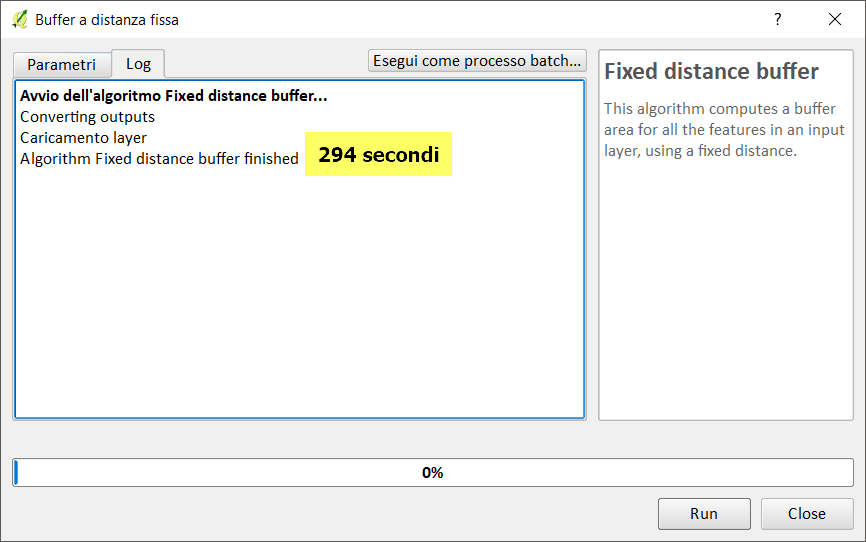
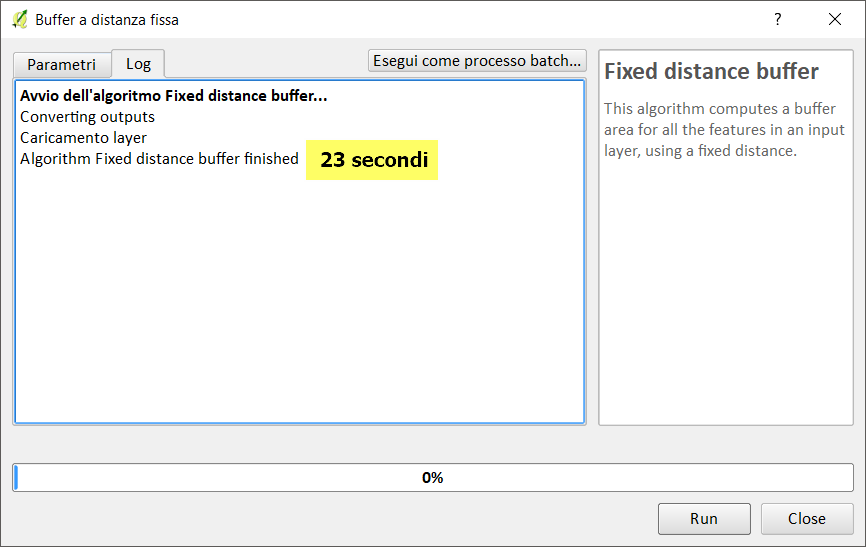
add prova buffer -2 km

diff --git a/prove/buffer2km.md b/prove/buffer2km.md
@@ -1,0 +1,189 @@
+# buffer -2 km (LZ50)
+
+**dataset:** db sqlite con spatialindex tabella _dissolve_reg_
+
+<!-- TOC -->
+
+- [buffer -2 km (LZ50)](#buffer--2-km-lz50)
+    - [QGIS 2.18.24](#qgis-21824)
+    - [QGIS 3.2.3](#qgis-323)
+    - [QGIS 3.3 master](#qgis-33-master)
+    - [SpatiaLite GUI 2.10](#spatialite-gui-210)
+    - [PostgreSQL 9.3 / PostGIS 2.2.3 / pgAdmin 3](#postgresql-93--postgis-223--pgadmin-3)
+    - [mapshaper](#mapshaper)
+    - [R + RStudio](#r--rstudio)
+    - [RISULTATI (LZ50) - buffer -2 km](#risultati-lz50---buffer--2-km)
+    - [Osservazioni finali:](#osservazioni-finali)
+
+<!-- /TOC -->
+
+## QGIS 2.18.24
+
+![](../img/qgis21824_info.png)
+
+![](../img/buffer2km/qgis21824_01.png)
+
+Creando un layer temporaneo in memoria:
+
+![](../img/buffer2km/qgis21824_02.png)
+
+Salvando in un file shp:
+
+![](../img/buffer2km/qgis21824_03.png)
+
+![](../img/buffer2km/qgis21824_04.png)
+
+-->[torna su](#dissolvi-per-regione-lz50)
+
+## QGIS 3.2.3
+
+![](../img/qgis323_info.png)
+
+![](../img/buffer2km/qgis323_01.png)
+
+Creando un layer temporaneo in memoria:
+
+![](../img/buffer2km/qgis323_04.png)
+
+Salvando in un file shp:
+
+![](../img/buffer2km/qgis323_02.png)
+
+![](../img/buffer2km/qgis323_03.png)
+
+-->[torna su](#dissolvi-per-regione-lz50)
+
+## QGIS 3.3 master
+
+![](../img/qgis33_master_info.png)
+
+NB: Il debug rallenta le prestazioni!!!
+
+![](../img/buffer2km/qgis330_01.png)
+
+Creando un layer temporaneo in memoria:
+
+![](../img/buffer2km/qgis330_02.png)
+
+Salvando in un file shp:
+
+![](../img/buffer2km/qgis330_03.png)
+
+-->[torna su](#dissolvi-per-regione-lz50)
+
+## SpatiaLite GUI 2.10
+
+![](../img/spatialite_gui_210_info.png)
+
+Creando una tabella:
+
+```
+-- creo geotabella buffer di -2 km
+CREATE TABLE buffer2km_g AS
+SELECT cod_reg, CastToMultiPolygon(ST_Buffer(geom, -2000)) AS geom
+FROM dissolve_reg;
+SELECT RecoverGeometryColumn('buffer2km_g','geom',32632,'MULTIPOLYGON','XY');
+-- creo SpatialIndex SpatiaLite
+SELECT CreateSpatialIndex ('buffer2km_g','geom');
+
+```
+![](../img/buffer2km/sl_210_01.png)
+
+Creando una query in memoria:
+
+```
+-- creo query in memoria
+SELECT cod_reg, CastToMultiPolygon(ST_Buffer(geom, -2000)) AS geom
+FROM dissolve_reg;
+```
+
+![](../img/buffer2km/sl_210_02.png)
+
+-->[torna su](#dissolvi-per-regione-lz50)
+
+## PostgreSQL 9.3 / PostGIS 2.2.3 / pgAdmin 3
+
+![](../img/pgAmin3_info.png)
+
+Creo tabella:
+
+```
+-- creo geotabella con buffer di -2 km
+CREATE TABLE buffer2km_g AS
+SELECT cod_reg, St_Multi(St_Buffer(geom, -2000)) AS geom
+FROM dissolto_g_reg;
+```
+![](../img/buffer2km/pg_223_01.png)
+
+Creo query in memoria:
+
+```
+-- creo query in memoria
+SELECT cod_reg, St_Multi(St_Buffer(geom, -2000)) AS geom
+FROM dissolto_g_reg;
+```
+
+![](../img/buffer2km/pg_223_02.png)
+
+-->[torna su](#dissolvi-per-regione-lz50)
+
+## mapshaper
+
+![](../img/mapshaper_info.png)
+
+```
+Il Buffer sembra non previsto!!!
+```
+
+-->[torna su](#dissolvi-per-regione-lz50)
+
+## R + RStudio
+
+![](../img/rstudio_info.png)
+
+```
+library(rgeos)
+library(sp)
+library(rgdal)
+
+start.time <- Sys.time()
+## read shapefile
+regioni<-readOGR(dsn = "F:\\Limiti01012018_g\\Com01012018_g", layer = "dissolto_g_reg")
+end.time <- Sys.time()
+time.taken <- end.time - start.time
+time.taken
+##Buffer with rgeos AND writeOGR
+start.time <- Sys.time()
+buffer2km<-gBuffer(regioni, byid = TRUE , width = -2000)
+##plot(buffer2km)
+buffer2km<- as(buffer2km,"SpatialPolygonsDataFrame")
+end.time <- Sys.time()
+time.taken <- end.time - start.time
+time.taken
+start.time <- Sys.time()
+writeOGR(buffer2km, dsn = "F:\\Limiti01012018_g\\Com01012018_g",layer="buffer2kmR", driver = "ESRI Shapefile")
+end.time <- Sys.time()
+time.taken <- end.time - start.time
+time.taken
+```
+![](../img/buffer2km/r_01.png)
+
+## RISULTATI (LZ50) - buffer -2 km
+
+file/table [sec]|memoria [sec]|software GIS
+:---------:|:---------:|---------
+23         |   23      |QGIS 2.18.24
+22         |   22      |QGIS 3.2.3
+22         |   22      |QGIS 3.3 master con debug
+15         |   11      |SpatiaLite_GUI 2.10
+18         |   18      |pgAdmin 3 con spatialIndex
+ `-`       |   `-`     |mapshaper
+13         |   12      |R + RStudio
+
+`-` prova non possibile! 
+
+[torna su](#dissolvi-per-regione-lz50)
+
+## Osservazioni finali:
+
+In QGIS l'uso dei _file temporanei_ (in memoria) velocizza di parecchio la generazione dell'output di alcuni processing, in questo caso sembra non cambiare nulla anche per PostGIS,Spatialite e RStudio.

diff --git a/README.md b/README.md
@@ -69,7 +69,7 @@ sudo npm install -g mapshaper
 1. [estrai vertici](./prove/estrai_vertici.md);
 2. [elimina geometrie duplicate](./prove/elimina_geom_duplicate.md) (alludo ai vertici);
 3. [dissolvi per regione](./prove/dissolvi_regione.md) (campo "cod_reg");
-4. [buffer -2 km](./prove/buffer5km.md) (su dissolvi per regione);
+4. [buffer -2 km](./prove/buffer2km.md) (su dissolvi per regione);
 5. [conta punti nel poligono](./prove/conta_punti_poligono.md) (usando i bbox e griglia punti regolari);
 6. [spatial join](./prove/spatial_join.md) (tra vertici e regione - trasferire campo "cod_reg");
 
